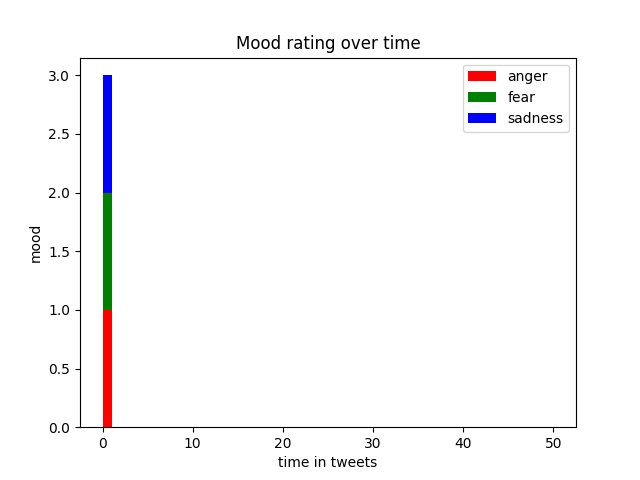
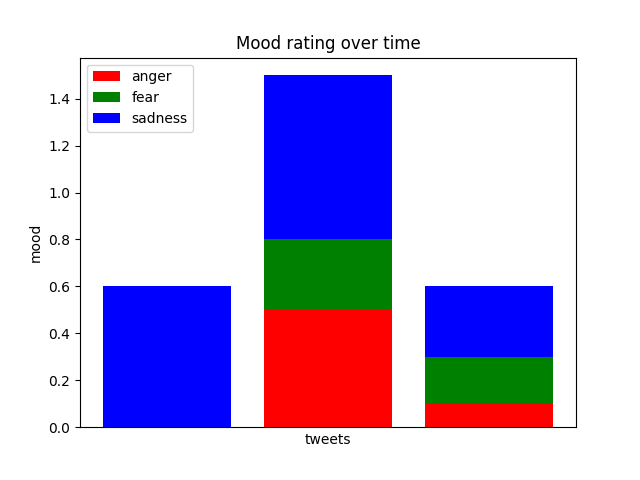
make graph work

diff --git a/helper.py b/helper.py
@@ -3,7 +3,7 @@ import numpy as np
 import matplotlib.pyplot as plt
 from watson_developer_cloud import ToneAnalyzerV3
 
-emotions = [];
+emotions = []     
 
 tone_analyzer = ToneAnalyzerV3(
     version='2017-09-21',
@@ -11,7 +11,7 @@ tone_analyzer = ToneAnalyzerV3(
     url='https://gateway-wdc.watsonplatform.net/tone-analyzer/api'
 )
 
-emotion = [0.0,0.0,0.0];
+emotion = [0.0,0.0,0.0]
 
 text = 'Team, I know that times are tough! Product '\
     'sales have been stupidly disappointing for the past three '\
@@ -32,13 +32,15 @@ for item in items:
         emotion[2] = item['score']
 
 emotions.append(emotion)
-# emotions.append([0.5, 0.3, 0.7])
+emotions.append([0.5, 0.3, 0.7])
+emotions.append([0.1,0.2,0.3])
+
+print(emotions)
 
 anger = list(row[0] for row in emotions)
 fear =  list(row[1] for row in emotions)
 sadness = list(row[2] for row in emotions)
 
-colors = ['red', 'green', 'blue']
 names = ['anger', 'fear', 'sadness']
 
 print(anger)
@@ -47,16 +49,34 @@ print(sadness)
 
 plt.figure()
 
-mu, sigma = 200, 25
-x = mu + sigma*np.random.randn(50,3)
+# xanger= list(range(0,len(anger)))
+# xsad= list(range(0,len(sadness)))
+# xfear = list(range(0,len(fear)))
+# plt.bar(xanger,anger,color="red",align = "center")
+# plt.bar(xsad,sadness,color="blue",bottom = anger, align = "center")
+# plt.bar(xfear,fear,color="green",bottom = anger+sadness, align = "center")
 
-n, bins, patches = plt.hist([anger, fear, sadness], range(0, 51), stacked=True, density=False,
-         color = colors, label=names)
+X = np.arange(len(emotions))
 
-plt.legend()
-plt.xlabel('time in tweets')
+A = np.array(anger)
+B = np.array(fear)
+C = np.array(sadness)
+
+plt.bar(X, A, color = 'red', align='center')
+plt.bar(X, B, color = 'green', bottom = A, align='center')
+plt.bar(X, C, color = 'blue', bottom = A + B, align='center')
+
+plt.legend(names, loc=2)
+plt.tick_params(
+    axis='x',         
+    which='both',      
+    bottom=False,      
+    top=False,         
+    labelbottom=False)
+plt.xlabel('tweets')
 plt.ylabel('mood')
 plt.title('Mood rating over time')
+# plt.show()
 plt.savefig('foo.png')
 
 # print(json.dumps(tone_analysis, indent=2))
